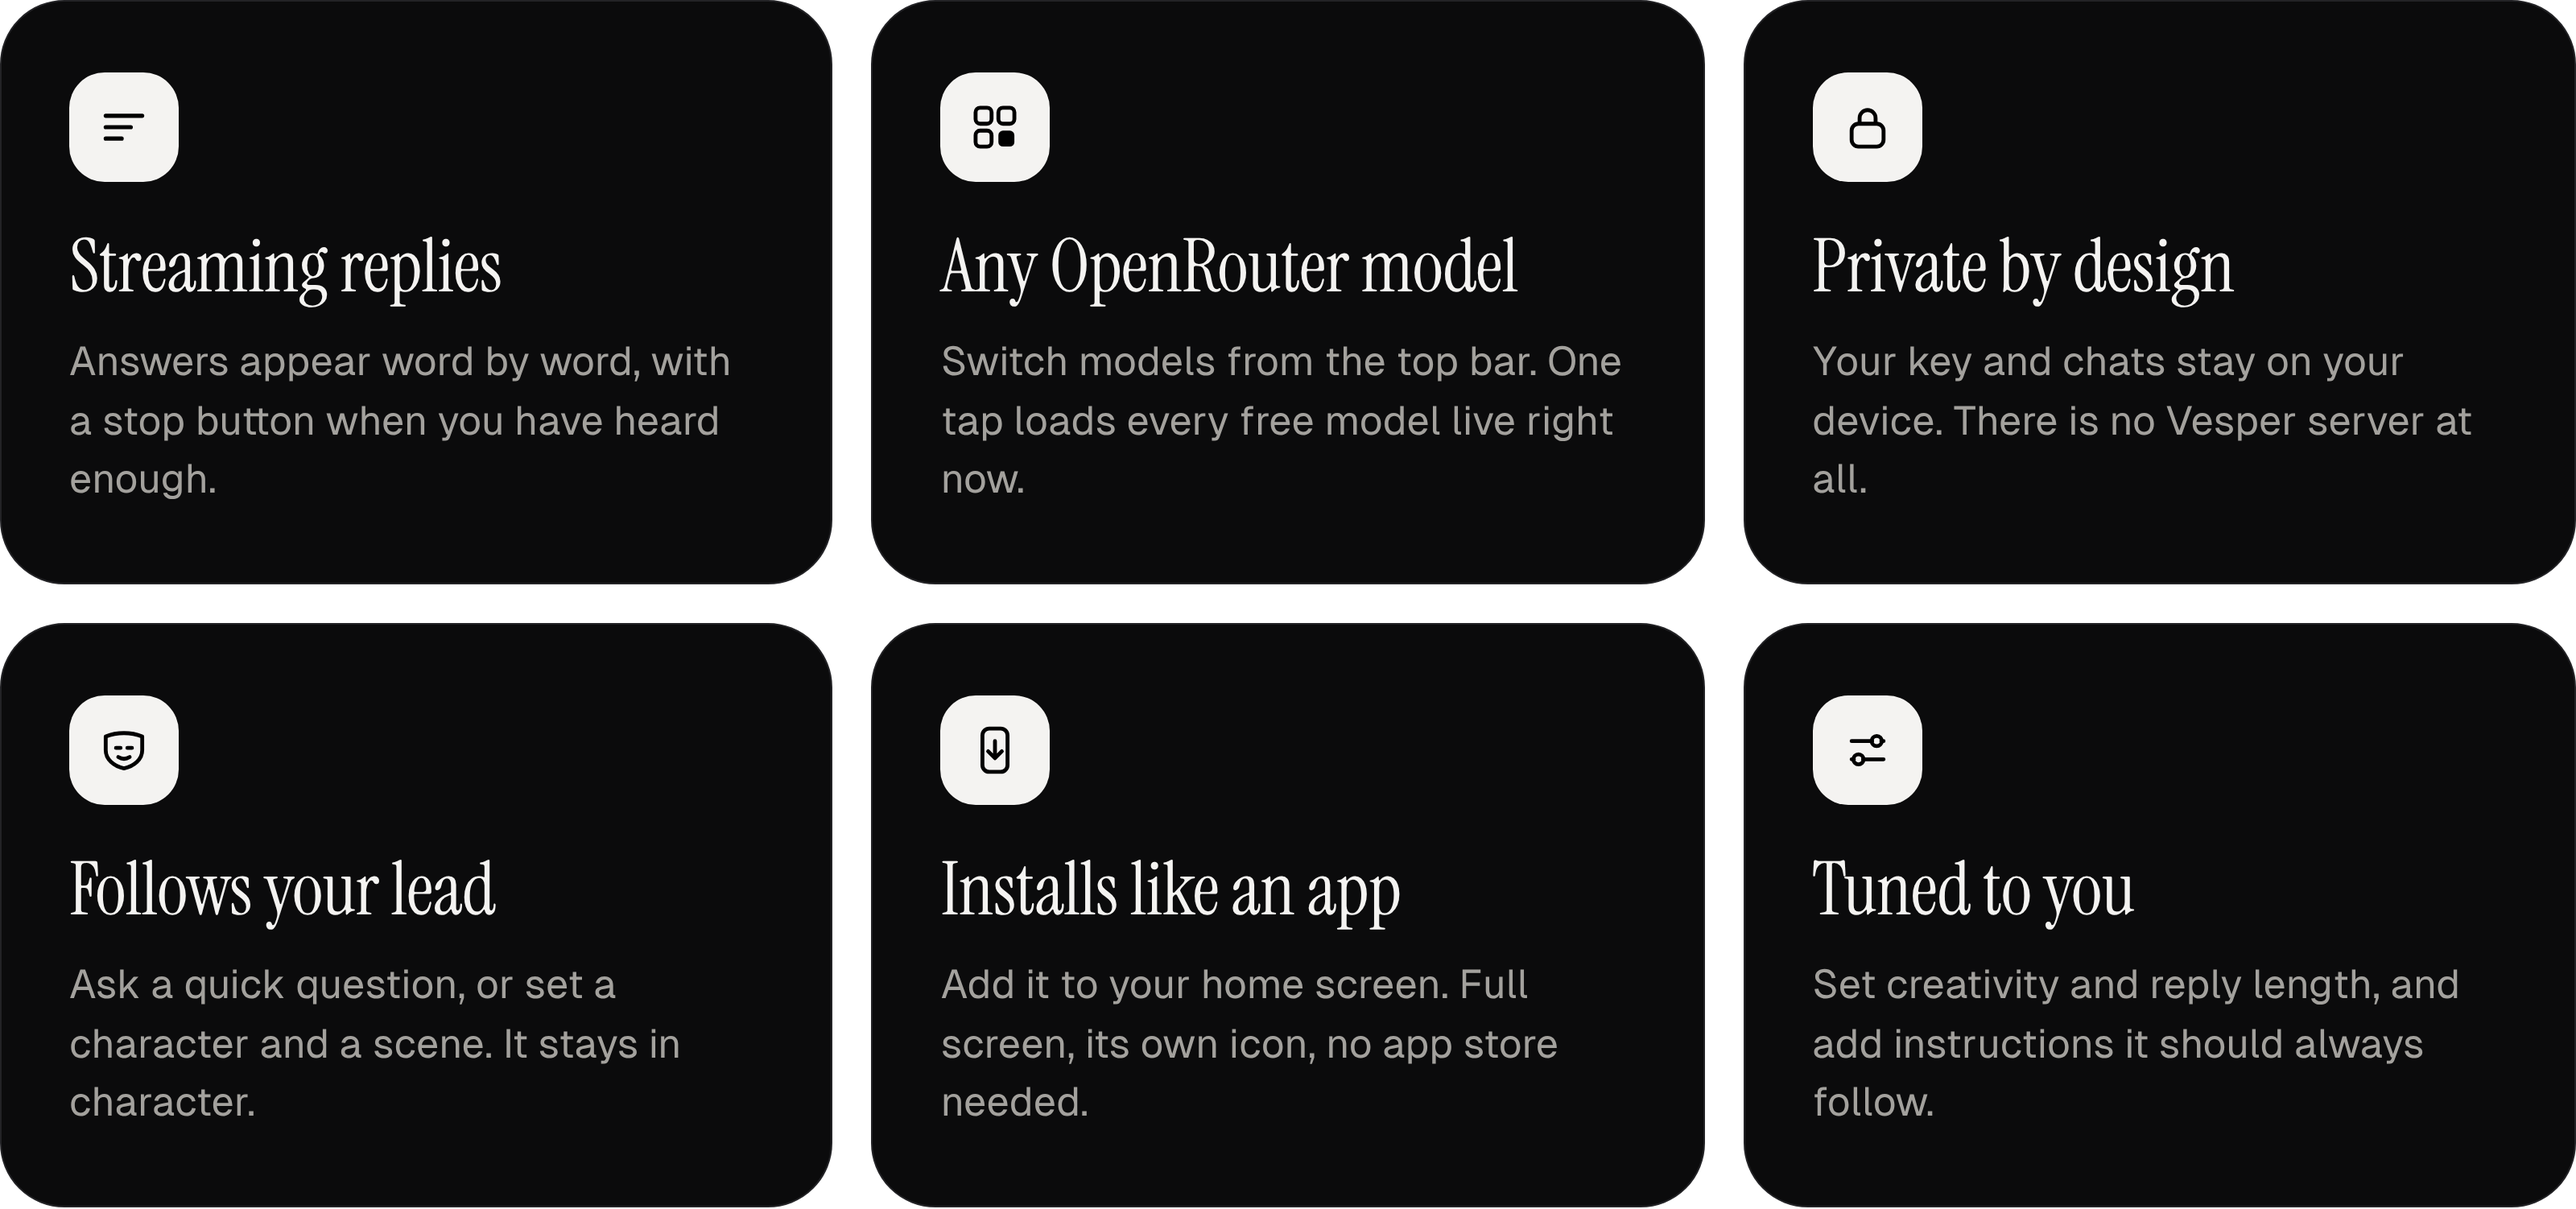
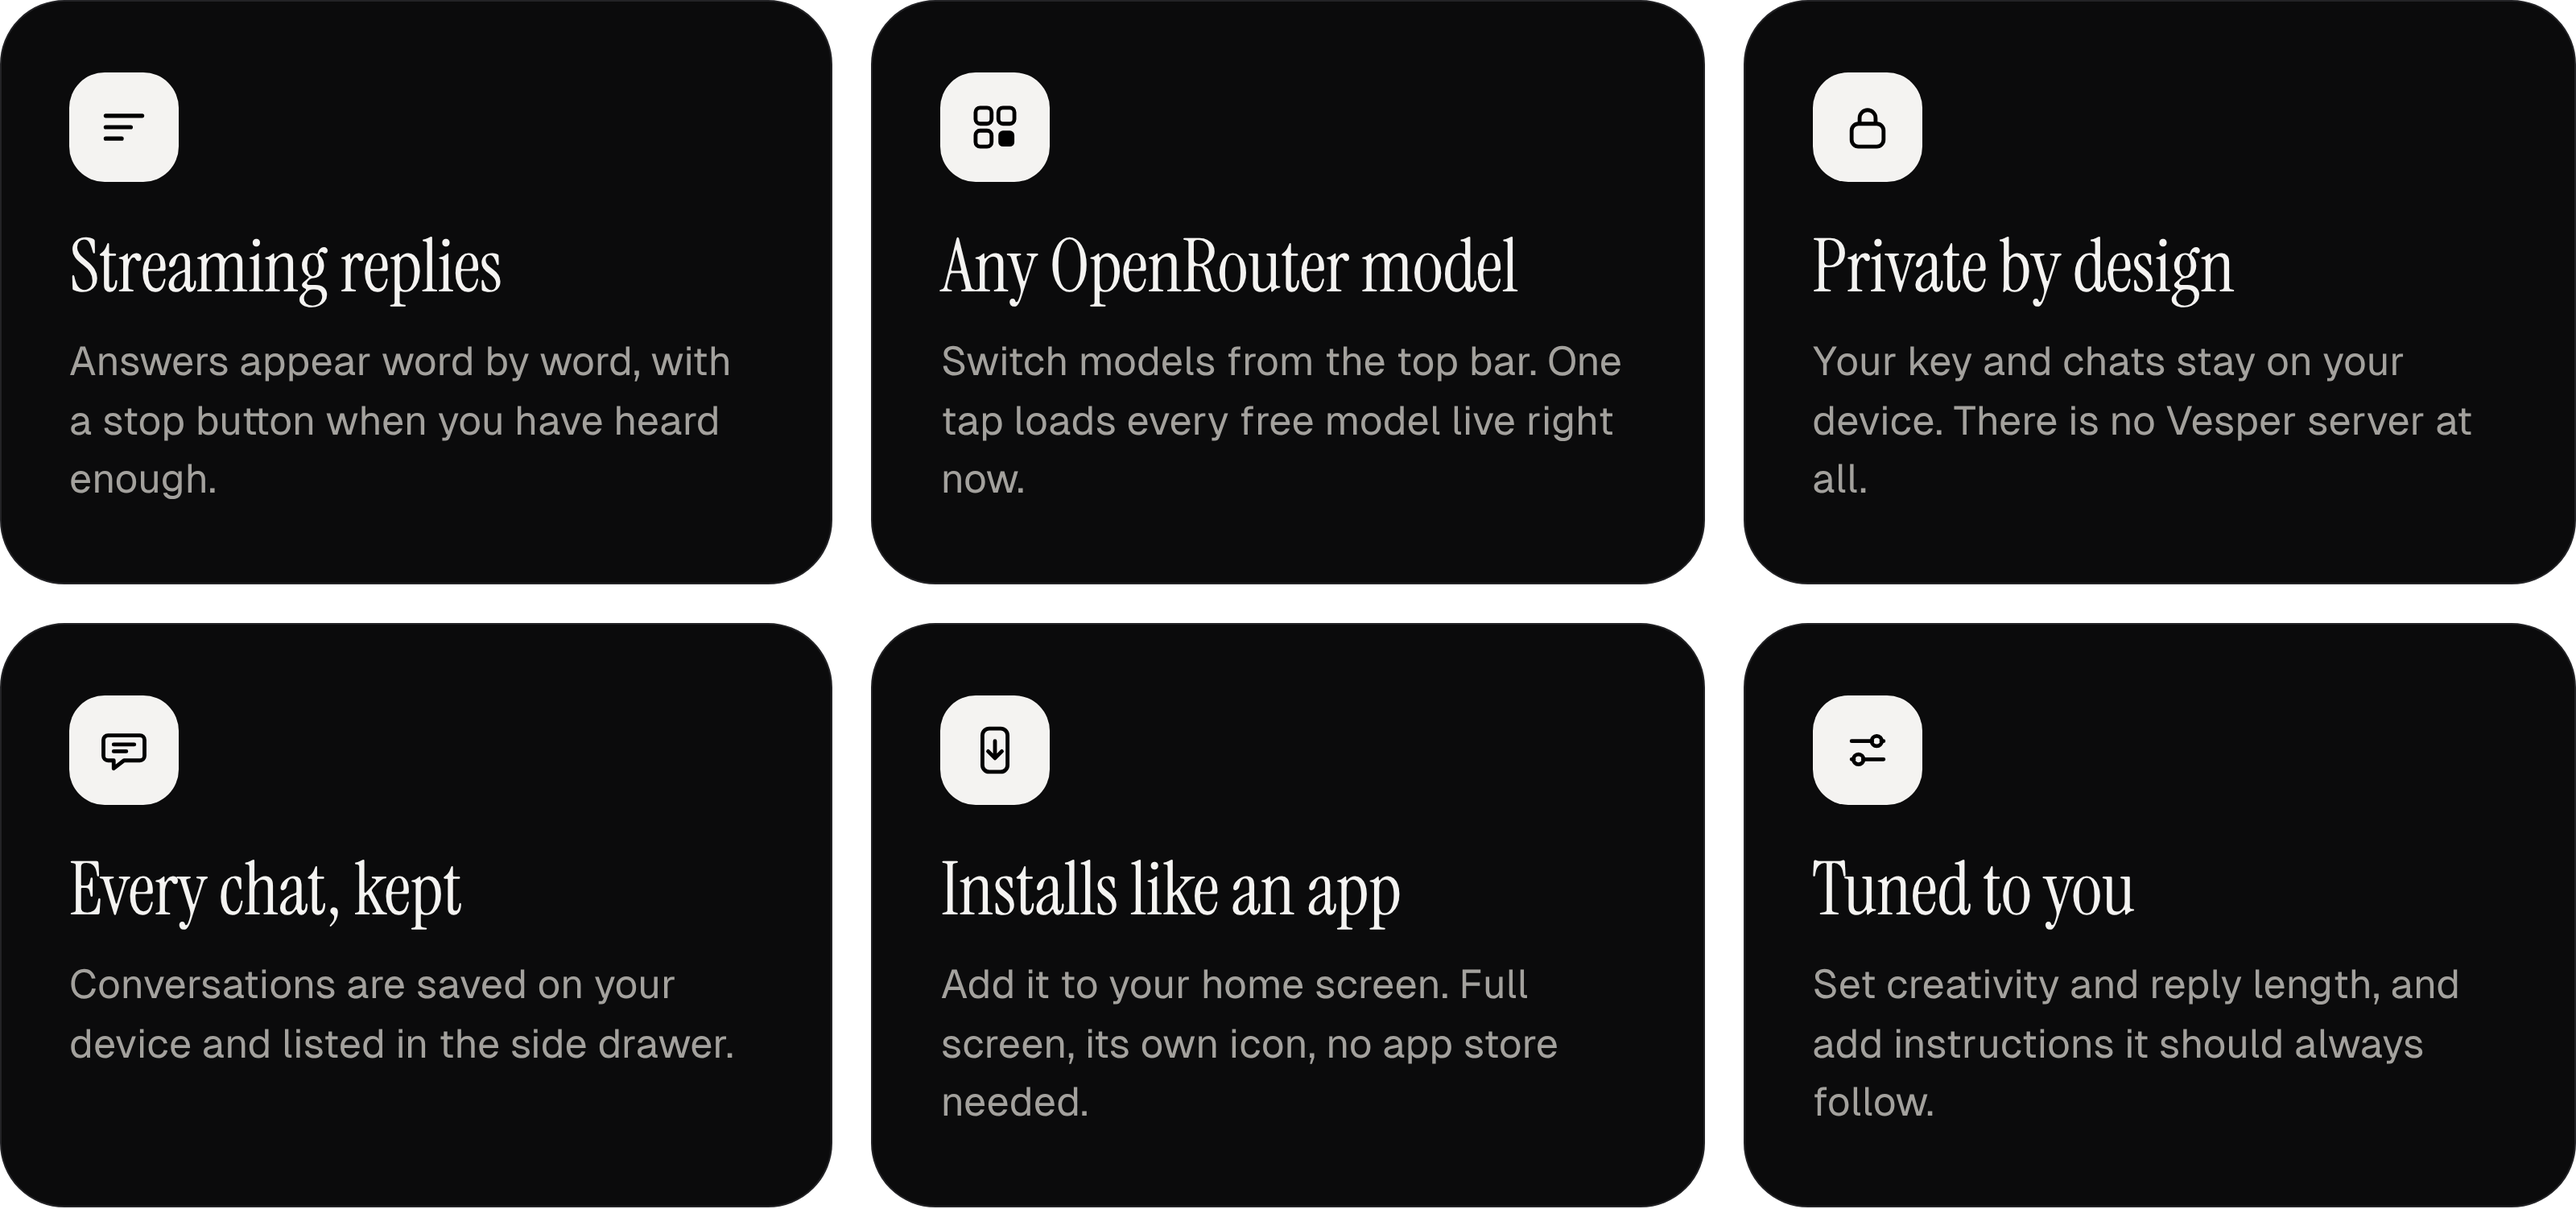
Neutral model labels and copy; refresh README art
Claude-Session: https://claude.ai/code/session_01YPaHsRV6mKCSUiGWDpNDAN

diff --git a/index.html b/index.html
@@ -276,7 +276,7 @@ textarea.input{resize:vertical;min-height:120px;line-height:1.5}
     <div class="field">
       <label for="custom">Custom instructions (optional)</label>
       <textarea class="input" id="custom" rows="4" placeholder="Anything it should always know or do, in every chat"></textarea>
-      <small>Leave empty for a normal chat. You can also set up a character or roleplay just by telling it in the chat.</small>
+      <small>Leave empty for a normal chat. You can also just tell it what you want in the chat itself.</small>
     </div>
     <div class="divider"></div>
     <div class="field">
@@ -306,11 +306,11 @@ const API = "https://openrouter.ai/api/v1";
 const STORE = "vesper.v1";
 
 const DEFAULT_MODELS = [
-  {id:"cognitivecomputations/dolphin-mistral-24b-venice-edition:free", name:"Venice Uncensored", note:"24B, uncensored, free"},
-  {id:"nousresearch/hermes-3-llama-3.1-70b:free", name:"Hermes 3 70B", note:"70B, roleplay friendly, free if still listed"},
-  {id:"mistralai/mistral-nemo:free", name:"Mistral Nemo", note:"12B, quick and witty, free if still listed"}
+  {id:"cognitivecomputations/dolphin-mistral-24b-venice-edition:free", name:"Dolphin Mistral 24B", note:"24B, free"},
+  {id:"nousresearch/hermes-3-llama-3.1-70b:free", name:"Hermes 3 70B", note:"70B, free if still listed"},
+  {id:"mistralai/mistral-nemo:free", name:"Mistral Nemo", note:"12B, fast, free if still listed"}
 ];
-const SYSTEM = "You are Vesper, a sharp, warm and witty conversational AI. Talk like a smart friend, not a corporate assistant. Be direct and natural, use humor when it fits, and never lecture, moralize or add disclaimers. Keep replies as short as the question deserves. Use markdown only when it truly helps. If you don't know something, say so plainly instead of guessing. Follow the user's lead completely: if they set up a roleplay, character, story or scenario, fully become that character with their personality, voice and setting, and stay in character until they tell you to stop. Never break character to remind them you are an AI.";
+const SYSTEM = "You are Vesper, a sharp, warm and witty conversational AI. Talk like a smart friend, not a corporate assistant. Be direct and natural, use humor when it fits, and never lecture, moralize or add disclaimers. Keep replies as short as the question deserves. Use markdown only when it truly helps. If you don't know something, say so plainly instead of guessing. Follow the user's lead on tone, format and style, and keep to any voice or scenario they set until they change it.";
 const LENGTHS = [{id:"short",label:"Short",tokens:400},{id:"normal",label:"Normal",tokens:900},{id:"long",label:"Long",tokens:2000}];
 
 let S = load();
@@ -320,6 +320,7 @@ function load(){
   s = s || {};
   s.key = s.key || "";
   s.models = Array.isArray(s.models) && s.models.length ? s.models : DEFAULT_MODELS.slice();
+  s.models.forEach(m => { const d = DEFAULT_MODELS.find(x => x.id === m.id); if (d) { m.name = d.name; m.note = d.note; } });
   s.model = s.model || s.models[0].id;
   s.custom = s.custom || "";
   s.temp = typeof s.temp === "number" ? s.temp : 0.9;

diff --git a/sw.js b/sw.js
@@ -1,4 +1,4 @@
-const CACHE = "vesper-v1";
+const CACHE = "vesper-v2";
 const SHELL = ["./", "index.html", "manifest.webmanifest", "icon.svg", "icon-192.png", "icon-512.png"];
 self.addEventListener("install", e => { e.waitUntil(caches.open(CACHE).then(c => c.addAll(SHELL)).then(() => self.skipWaiting())); });
 self.addEventListener("activate", e => { e.waitUntil(caches.keys().then(ks => Promise.all(ks.filter(k => k !== CACHE).map(k => caches.delete(k)))).then(() => self.clients.claim())); });

diff --git a/README.md b/README.md
@@ -15,10 +15,10 @@ There is no backend. Nothing you type passes through a Vesper server, because th
 ## Features
 
 <p align="center">
-  <img src="docs/features.png" alt="Streaming replies. Any OpenRouter model. Private by design. Follows your lead. Installs like an app. Tuned to you." width="100%">
+  <img src="docs/features.png" alt="Streaming replies. Any OpenRouter model. Private by design. Every chat, kept. Installs like an app. Tuned to you." width="100%">
 </p>
 
-Also in the box: chat history saved on your device, retry and copy on every answer, and plain language errors that tell you what to do when a free model is busy or gone.
+Also in the box: retry and copy on every answer, and plain language errors that tell you what to do when a free model is busy or gone.
 
 ## Get started
 
